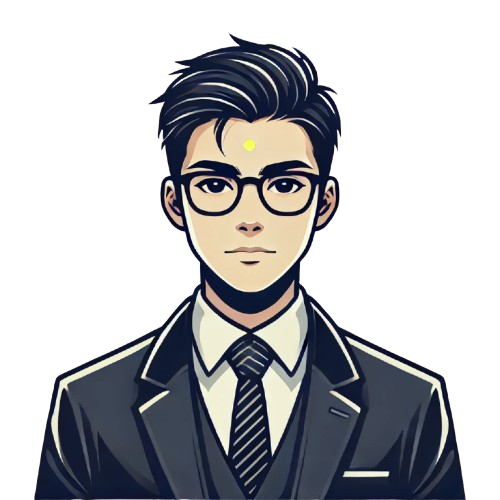
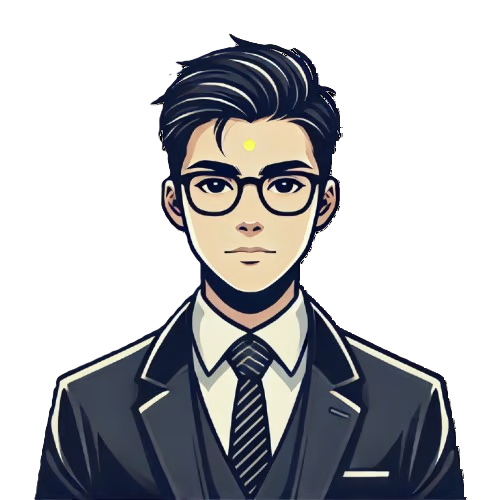
remove image

diff --git a/components/homepage/HomeRight.js b/components/homepage/HomeRight.js
@@ -13,16 +13,15 @@ const HomeRight = () => {
       viewport={{ once: false, amount: 0.6 }}
       whileHover={{ scale: 1.05 }}
       transition={{ type: "spring", stiffness: 300, damping: 20 }}
-      className="w-full max-w-xs md:max-w-sm  m-auto h-80  md:h-96 rounded-full  back2 relative"
+      className="w-full max-w-xs md:max-w-sm  m-auto h-80  md:h-96 rounded-full   relative"
     >
- <Image
-          src={'/images/illustration.png'}
-          alt='avatar'
-          fill
-          sizes="320px"
-          className='object-cover object-center '
-          priority={true}
-        />
+      <Image
+        src={'/images/vikash.webp'}
+        alt='avatar'
+        fill
+        className='object-cover object-center '
+        priority={true}
+      />
     </motion.div>
   );
 };

diff --git a/components/Footer.js b/components/Footer.js
@@ -16,7 +16,7 @@ const Footer = () => {
         <div className='w-full flex flex-col items-center gap-10 md:gap-10 lg:5'>
           <div className="relative w-24 h-24 back2">
             <Image
-              src="/images/illustration.png"
+              src="/images/vikash.webp"
               alt="avatar"
               fill
               className="object-cover object-center"

diff --git a/components/Navbar.js b/components/Navbar.js
@@ -12,7 +12,6 @@ const Navbar = () => {
           alt="Elegant Jewelry logo"
           fill
           className="object-cover"
-          sizes="(min-width: 1040px) 256px, (min-width: 780px) 160px, (min-width: 380px) 128px, calc(93.33vw - 208px)"
           priority={true}
         />
       </div>
